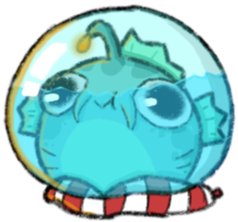
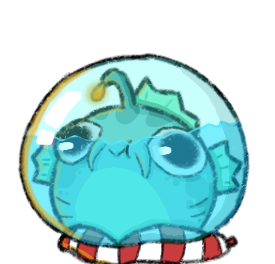
Update css pagina inicial e login
Foi atualizado o css da pagina de login e foi alterado a imagem dos personagens da pagina inicial

diff --git a/quizgincana/src/jogo/Login.module.css b/quizgincana/src/jogo/Login.module.css
@@ -24,6 +24,8 @@
     flex-direction: column;
     align-items: center;
     justify-content: center;
+    padding-top: 32vh;
+    padding-left: 3vw;
 }
 
 .loginbox{
@@ -62,7 +64,7 @@
     background-color: transparent;
     border: none;
     margin-top: 3vh;
-    margin-bottom: 17px;
+    margin-bottom: 30px;
 }
 
 .loginbutton img{
